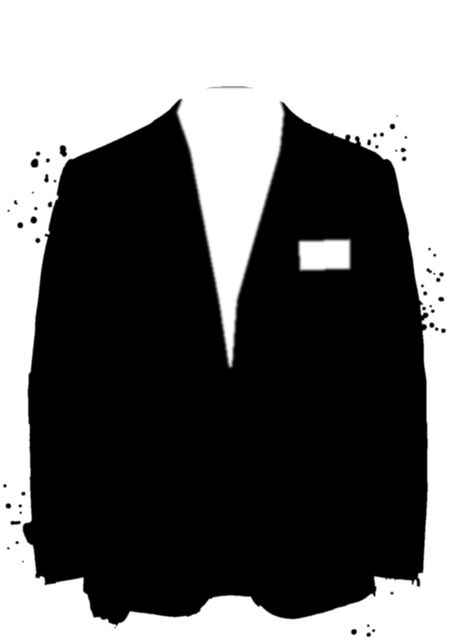
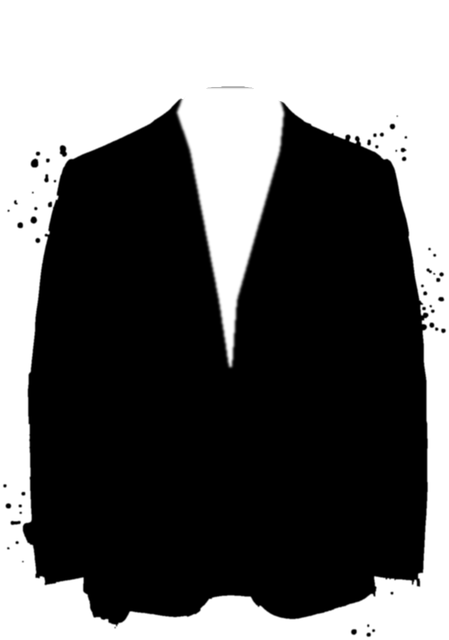
Déploiement automatique anti-cache + chemise blanche

Changed region(s): [[0.6548, 0.375, 0.8107, 0.4375]]

diff --git a/sketches.js b/sketches.js
@@ -161,89 +161,115 @@
     </svg>`;
   }
 
+  /* filtres communs aux tenues : bords légèrement irréguliers, grain de papier, ombre douce */
+  const outfitDefs = k => `
+        <linearGradient id="${k}hg" x1="0" x2="1"><stop offset="0" stop-color="#a98035"/><stop offset=".5" stop-color="#f1d9a0"/><stop offset="1" stop-color="#a98035"/></linearGradient>
+        <filter id="${k}wc" x="-15%" y="-10%" width="130%" height="125%" color-interpolation-filters="sRGB">
+          <feTurbulence type="fractalNoise" baseFrequency=".045" numOctaves="2" seed="3" result="w"/>
+          <feDisplacementMap in="SourceGraphic" in2="w" scale="1.1" result="d"/>
+          <feTurbulence type="fractalNoise" baseFrequency=".9" numOctaves="3" seed="8" result="n"/>
+          <feColorMatrix in="n" type="saturate" values="0" result="g"/>
+          <feComponentTransfer in="g" result="gr"><feFuncR type="linear" slope=".45" intercept=".7"/><feFuncG type="linear" slope=".45" intercept=".7"/><feFuncB type="linear" slope=".45" intercept=".7"/></feComponentTransfer>
+          <feBlend in="d" in2="gr" mode="multiply" result="m"/>
+          <feComposite in="m" in2="d" operator="in" result="p"/>
+          <feGaussianBlur in="d" stdDeviation="3.5" result="b"/>
+          <feOffset in="b" dy="4" result="o"/>
+          <feColorMatrix in="o" type="matrix" values="0 0 0 0 .35  0 0 0 0 .12  0 0 0 0 .22  0 0 0 .22 0" result="sh"/>
+          <feMerge><feMergeNode in="sh"/><feMergeNode in="p"/></feMerge>
+        </filter>`;
+
   window.SKETCH = {
     chateau: wrap('0 0 420 236', chateauW, chateau, 'Aquarelle du Château de la Fontaine et de son grand cèdre'),
     eglise: wrap('0 0 420 236', egliseW, eglise, 'Aquarelle de l’église et de la halle d’Égreville'),
     mairie: wrap('0 0 420 236', mairieW, mairie, 'Aquarelle de l’hôtel de ville de Suresnes'),
     doodle: (k) => `<svg class="sk doodle" viewBox="0 0 64 64" aria-hidden="true"><g class="ink">${doodles[k] || doodles.heart}</g></svg>`,
     seal,
-    /* Tenues illustrées (dress code). La couleur « c » remplit les éléments .fab ;
-       ombres et reflets sont des calques translucides, donc ils suivent toute couleur. */
+    /* Tenues illustrées (dress code), façon aquarelle réaliste.
+       La couleur « c » remplit les éléments .fab ; ombres, satin et grain de papier
+       sont des calques translucides : ils suivent n'importe quelle couleur. */
     suit: (c) => { const k = 'o' + (sealN++); return `<svg class="outfit" viewBox="0 0 120 170" aria-hidden="true">
-      <defs>
-        <linearGradient id="${k}L" x1="0" x2="1"><stop offset="0" stop-color="#000" stop-opacity=".26"/><stop offset=".35" stop-color="#000" stop-opacity=".02"/><stop offset=".8" stop-color="#fff" stop-opacity=".1"/><stop offset="1" stop-color="#000" stop-opacity=".08"/></linearGradient>
-        <linearGradient id="${k}R" x1="1" x2="0"><stop offset="0" stop-color="#000" stop-opacity=".3"/><stop offset=".35" stop-color="#000" stop-opacity=".04"/><stop offset=".85" stop-color="#000" stop-opacity="0"/><stop offset="1" stop-color="#000" stop-opacity=".12"/></linearGradient>
-        <linearGradient id="${k}T" x1="0" y1="0" x2="0" y2="1"><stop offset="0" stop-color="#fff" stop-opacity=".3"/><stop offset=".22" stop-color="#fff" stop-opacity="0"/><stop offset=".85" stop-color="#000" stop-opacity="0"/><stop offset="1" stop-color="#000" stop-opacity=".12"/></linearGradient>
-        <linearGradient id="${k}S" x1="0" x2="1"><stop offset="0" stop-color="#000" stop-opacity=".32"/><stop offset=".5" stop-color="#000" stop-opacity=".08"/><stop offset="1" stop-color="#000" stop-opacity=".22"/></linearGradient>
-        <linearGradient id="${k}hg" x1="0" x2="1"><stop offset="0" stop-color="#a98035"/><stop offset=".5" stop-color="#f1d9a0"/><stop offset="1" stop-color="#a98035"/></linearGradient>
-        <filter id="${k}ds" x="-20%" y="-10%" width="140%" height="130%"><feDropShadow dx="0" dy="5" stdDeviation="4" flood-color="#5a1e37" flood-opacity=".2"/></filter>
+      <defs>${outfitDefs(k)}
+        <linearGradient id="${k}L" x1="0" x2="1"><stop offset="0" stop-color="#000" stop-opacity=".34"/><stop offset=".45" stop-color="#000" stop-opacity=".02"/><stop offset=".75" stop-color="#fff" stop-opacity=".16"/><stop offset="1" stop-color="#000" stop-opacity=".1"/></linearGradient>
+        <linearGradient id="${k}R" x1="1" x2="0"><stop offset="0" stop-color="#000" stop-opacity=".4"/><stop offset=".5" stop-color="#000" stop-opacity=".06"/><stop offset="1" stop-color="#000" stop-opacity=".16"/></linearGradient>
+        <linearGradient id="${k}V" x1="0" y1="0" x2="0" y2="1"><stop offset="0" stop-color="#fff" stop-opacity=".22"/><stop offset=".25" stop-color="#fff" stop-opacity="0"/><stop offset=".5" stop-color="#000" stop-opacity=".1"/><stop offset=".62" stop-color="#000" stop-opacity="0"/><stop offset="1" stop-color="#000" stop-opacity=".18"/></linearGradient>
+        <linearGradient id="${k}S" x1="0" x2="1"><stop offset="0" stop-color="#000" stop-opacity=".42"/><stop offset=".55" stop-color="#000" stop-opacity=".08"/><stop offset=".8" stop-color="#fff" stop-opacity=".1"/><stop offset="1" stop-color="#000" stop-opacity=".3"/></linearGradient>
+        <linearGradient id="${k}S2" x1="1" x2="0"><stop offset="0" stop-color="#000" stop-opacity=".46"/><stop offset=".55" stop-color="#000" stop-opacity=".1"/><stop offset=".8" stop-color="#fff" stop-opacity=".06"/><stop offset="1" stop-color="#000" stop-opacity=".3"/></linearGradient>
+        <linearGradient id="${k}sat" x1="0" y1="0" x2="1" y2="1"><stop offset="0" stop-color="#fff" stop-opacity="0"/><stop offset=".42" stop-color="#fff" stop-opacity=".05"/><stop offset=".5" stop-color="#fff" stop-opacity=".42"/><stop offset=".6" stop-color="#fff" stop-opacity=".06"/><stop offset="1" stop-color="#fff" stop-opacity="0"/></linearGradient>
       </defs>
-      <!-- cintre fil doré : seul le crochet sort du col, le reste est caché dans la veste -->
-      <path d="M60 33 V15 a6 6 0 1 1 6 -6" fill="none" stroke="url(#${k}hg)" stroke-width="2.2" stroke-linecap="round"/>
-      <g filter="url(#${k}ds)">
-        <!-- col arrière (doublure) -->
-        <path class="fab" fill="${c}" d="M49 31 Q60 26.5 71 31 L69 36 Q60 32.5 51 36 Z"/>
-        <path fill="#000" fill-opacity=".38" d="M49 31 Q60 26.5 71 31 L69 36 Q60 32.5 51 36 Z"/>
-        <ellipse cx="60" cy="29.4" rx="3.2" ry="1.2" fill="#000" fill-opacity=".35"/>
-        <!-- chemise + cravate -->
-        <path fill="#fbf8f5" d="M50 31 Q60 28.5 70 31 L60 101 Z"/>
-        <path fill="#000" fill-opacity=".06" d="M60 34 L60 101 L56 70 Z"/>
-        <path fill="#fff" d="M50.5 31.5 L60 37 L56 42 Z M69.5 31.5 L60 37 L64 42 Z"/>
-        <path fill="#3a2530" d="M57.6 37.5 H62.4 L63.4 42.5 H56.6 Z"/>
-        <path fill="#3a2530" d="M56.8 42.5 H63.2 L65.5 80 L60 87 L54.5 80 Z"/>
-        <path fill="#fff" fill-opacity=".14" d="M60 42.5 H63.2 L65.5 80 L60 87 Z"/>
-        <!-- manches (derrière le buste) -->
-        <path class="fab" fill="${c}" d="M25 45 Q16.5 47 15.5 58 L12.5 128 Q18 131.5 24.5 129 L28.5 74 Z"/>
-        <path fill="url(#${k}S)" d="M25 45 Q16.5 47 15.5 58 L12.5 128 Q18 131.5 24.5 129 L28.5 74 Z"/>
-        <path class="fab" fill="${c}" d="M95 45 Q103.5 47 104.5 58 L107.5 128 Q102 131.5 95.5 129 L91.5 74 Z"/>
-        <path fill="url(#${k}S)" d="M95 45 Q103.5 47 104.5 58 L107.5 128 Q102 131.5 95.5 129 L91.5 74 Z"/>
-        <path fill="#fbf8f5" d="M13 126 Q18.5 129 24.6 127 L24.4 131 Q18 133.5 12.8 130.5 Z M107 126 Q101.5 129 95.4 127 L95.6 131 Q102 133.5 107.2 130.5 Z"/>
-        <!-- pan gauche / pan droit -->
-        <path class="fab" fill="${c}" d="M50 31 L60 101 Q58.5 133 50.5 156 Q36 159 23.5 153 Q21.5 127 23.5 101 Q26.5 88 25 74 L20.5 56 Q20 47.5 24.5 45 Z"/>
-        <path fill="url(#${k}L)" d="M50 31 L60 101 Q58.5 133 50.5 156 Q36 159 23.5 153 Q21.5 127 23.5 101 Q26.5 88 25 74 L20.5 56 Q20 47.5 24.5 45 Z"/>
-        <path class="fab" fill="${c}" d="M70 31 L60 101 Q61.5 133 69.5 156 Q84 159 96.5 153 Q98.5 127 96.5 101 Q93.5 88 95 74 L99.5 56 Q100 47.5 95.5 45 Z"/>
-        <path fill="url(#${k}R)" d="M70 31 L60 101 Q61.5 133 69.5 156 Q84 159 96.5 153 Q98.5 127 96.5 101 Q93.5 88 95 74 L99.5 56 Q100 47.5 95.5 45 Z"/>
-        <path fill="url(#${k}T)" d="M24.5 45 L50 31 L60 101 L70 31 L95.5 45 Q100 47.5 99.5 56 L96.5 101 Q98.5 127 96.5 153 Q84 159 69.5 156 Q61.5 133 60 101 Q58.5 133 50.5 156 Q36 159 23.5 153 Q21.5 127 23.5 101 L20.5 56 Q20 47.5 24.5 45 Z"/>
-        <!-- revers à cran aigu -->
-        <path class="fab" fill="${c}" d="M50 31 L44.5 34.5 L35.5 50.5 L45.5 52.5 L60 101 Z"/>
-        <path fill="#000" fill-opacity=".2" d="M50 31 L44.5 34.5 L35.5 50.5 L45.5 52.5 L60 101 Z"/>
-        <path fill="#fff" fill-opacity=".14" d="M44.5 34.5 L35.5 50.5 L40 51.4 Z"/>
-        <path class="fab" fill="${c}" d="M70 31 L75.5 34.5 L84.5 50.5 L74.5 52.5 L60 101 Z"/>
-        <path fill="#000" fill-opacity=".1" d="M70 31 L75.5 34.5 L84.5 50.5 L74.5 52.5 L60 101 Z"/>
-        <path fill="none" stroke="#000" stroke-opacity=".28" stroke-width=".8" stroke-linejoin="round" d="M44.5 34.5 L35.5 50.5 L45.5 52.5 L60 101 M75.5 34.5 L84.5 50.5 L74.5 52.5 L60 101 M42 46 L46 47.5 M78 46 L74 47.5"/>
-        <!-- coutures, pinces, poches -->
-        <path fill="none" stroke="#000" stroke-opacity=".16" stroke-width=".8" d="M34 64 Q35 92 36.5 118 M86 64 Q85 92 83.5 118 M25 74 Q24 60 21 56 M95 74 Q96 60 99 56"/>
-        <path fill="none" stroke="#fff" stroke-opacity=".25" stroke-width=".7" d="M60.6 101 Q62 133 70 155.4"/>
-        <path class="fab" fill="${c}" d="M27 117 H45 L44.6 123.5 Q36 124.6 27.2 123.5 Z M75 117 H93 L92.8 123.5 Q84 124.6 75.4 123.5 Z"/>
-        <path fill="#000" fill-opacity=".14" d="M27 117 H45 L44.6 123.5 Q36 124.6 27.2 123.5 Z M75 117 H93 L92.8 123.5 Q84 124.6 75.4 123.5 Z"/>
-        <path fill="none" stroke="#000" stroke-opacity=".3" stroke-width=".8" d="M27 117 H45 M75 117 H93"/>
-        <path fill="none" stroke="#000" stroke-opacity=".3" stroke-width=".8" d="M74 64.5 L89 63"/>
-        <path fill="#fbf8f5" d="M76 64.3 L79 58.5 L81.5 61.5 L84 57.5 L87 63.2 Z"/>
-        <path fill="#000" fill-opacity=".08" d="M81.5 61.5 L84 57.5 L87 63.2 Z"/>
-        <circle cx="59.3" cy="104" r="1.9" fill="#2a1820" fill-opacity=".8"/><circle cx="59.6" cy="117" r="1.9" fill="#2a1820" fill-opacity=".8"/>
-        <circle cx="58.8" cy="103.4" r=".6" fill="#fff" fill-opacity=".5"/><circle cx="59.1" cy="116.4" r=".6" fill="#fff" fill-opacity=".5"/>
-        <path fill="none" stroke="#000" stroke-opacity=".22" stroke-width=".7" d="M22 122 L24.5 122 M98 122 L95.5 122"/>
+      <path d="M60 31 V15 a6 6 0 1 1 6 -6" fill="none" stroke="url(#${k}hg)" stroke-width="2" stroke-linecap="round"/>
+      <g filter="url(#${k}wc)">
+        <path class="fab" fill="${c}" d="M52 30 Q60 26.5 68 30 L67 34 Q60 31.5 53 34 Z"/>
+        <path fill="#000" fill-opacity=".45" d="M52 30 Q60 26.5 68 30 L67 34 Q60 31.5 53 34 Z"/>
+        <ellipse cx="60" cy="28.6" rx="2.6" ry="1" fill="#000" fill-opacity=".4"/>
+        <!-- plastron de chemise -->
+        <path fill="#fbf8f4" d="M52 30 Q60 28 68 30 L60 104 Z"/>
+        <path fill="none" stroke="#000" stroke-opacity=".07" stroke-width=".6" d="M57.5 42 L59.2 98 M62.5 42 L60.8 98 M55.5 42 L58.6 90 M64.5 42 L61.4 90"/>
+        <circle cx="60" cy="50" r=".9" fill="#2a1820" fill-opacity=".7"/><circle cx="60" cy="60" r=".9" fill="#2a1820" fill-opacity=".7"/><circle cx="60" cy="70" r=".9" fill="#2a1820" fill-opacity=".7"/>
+        <!-- nœud papillon -->
+        <path fill="#2b1c24" d="M60 36.2 L51.6 32.6 Q50.6 36.2 51.6 39.8 Z M60 36.2 L68.4 32.6 Q69.4 36.2 68.4 39.8 Z"/>
+        <path fill="#fff" fill-opacity=".18" d="M60 36.2 L51.6 32.6 Q51 34 51.3 35 Z M60 36.2 L68.4 32.6 Q69 34 68.7 35 Z"/>
+        <rect x="58.2" y="34.2" width="3.6" height="4" rx="1" fill="#1d1218"/>
+        <!-- manches -->
+        <path class="fab" fill="${c}" d="M30 39 Q24 42 23.5 52 Q22 75 23.5 98 Q24.5 116 26 133 L36 133.5 Q35.4 112 37 92 Q38.5 70 34 54 Z"/>
+        <path fill="url(#${k}S)" d="M30 39 Q24 42 23.5 52 Q22 75 23.5 98 Q24.5 116 26 133 L36 133.5 Q35.4 112 37 92 Q38.5 70 34 54 Z"/>
+        <path class="fab" fill="${c}" d="M90 39 Q96 42 96.5 52 Q98 75 96.5 98 Q95.5 116 94 133 L84 133.5 Q84.6 112 83 92 Q81.5 70 86 54 Z"/>
+        <path fill="url(#${k}S2)" d="M90 39 Q96 42 96.5 52 Q98 75 96.5 98 Q95.5 116 94 133 L84 133.5 Q84.6 112 83 92 Q81.5 70 86 54 Z"/>
+        <path fill="#000" fill-opacity=".22" d="M84 133.5 Q84.6 112 83 92 Q82 78 85 62 L88 64 Q86 80 87 96 Q87.4 116 86 133.5 Z"/>
+        <path fill="#fbf8f4" d="M26 131 L36 131.5 L36.2 134.6 L26.2 134.2 Z M94 131 L84 131.5 L83.8 134.6 L93.8 134.2 Z"/>
+        <path fill="#000" fill-opacity=".25" d="M26 131 L36 131.5 L36 132.4 L26 132 Z M94 131 L84 131.5 L84 132.4 L94 132 Z"/>
+        <!-- pans de la veste (taille cintrée) -->
+        <path class="fab" fill="${c}" d="M52 30 L59.6 104 Q58.6 134 52 155 Q42 157.5 34 153 Q32.5 138 33.5 126 Q35.5 112 36.5 100 Q37 84 34 66 Q31.5 54 29 46 Q28.5 40 32 37.5 Q42 32 52 30 Z"/>
+        <path fill="url(#${k}L)" d="M52 30 L59.6 104 Q58.6 134 52 155 Q42 157.5 34 153 Q32.5 138 33.5 126 Q35.5 112 36.5 100 Q37 84 34 66 Q31.5 54 29 46 Q28.5 40 32 37.5 Q42 32 52 30 Z"/>
+        <path class="fab" fill="${c}" d="M68 30 L59.6 104 Q61.4 134 68 155 Q78 157.5 86 153 Q87.5 138 86.5 126 Q84.5 112 83.5 100 Q83 84 86 66 Q88.5 54 91 46 Q91.5 40 88 37.5 Q78 32 68 30 Z"/>
+        <path fill="url(#${k}R)" d="M68 30 L59.6 104 Q61.4 134 68 155 Q78 157.5 86 153 Q87.5 138 86.5 126 Q84.5 112 83.5 100 Q83 84 86 66 Q88.5 54 91 46 Q91.5 40 88 37.5 Q78 32 68 30 Z"/>
+        <path fill="url(#${k}V)" d="M32 37.5 Q42 32 52 30 L59.6 104 L68 30 Q78 32 88 37.5 Q91.5 40 91 46 Q88.5 54 86 66 Q83 84 83.5 100 Q84.5 112 86.5 126 Q87.5 138 86 153 Q78 157.5 68 155 Q61.4 134 59.6 104 Q58.6 134 52 155 Q42 157.5 34 153 Q32.5 138 33.5 126 Q35.5 112 36.5 100 Q37 84 34 66 Q31.5 54 29 46 Q28.5 40 32 37.5 Z"/>
+        <!-- revers en satin à pointe -->
+        <path class="fab" fill="${c}" d="M52 30 L47 33.2 L36.5 46.5 L44.5 49.6 Q51 76 59.6 104 Z"/>
+        <path fill="#000" fill-opacity=".32" d="M52 30 L47 33.2 L36.5 46.5 L44.5 49.6 Q51 76 59.6 104 Z"/>
+        <path fill="url(#${k}sat)" d="M52 30 L47 33.2 L36.5 46.5 L44.5 49.6 Q51 76 59.6 104 Z"/>
+        <path class="fab" fill="${c}" d="M68 30 L73 33.2 L83.5 46.5 L75.5 49.6 Q69 76 60.4 104 Z"/>
+        <path fill="#000" fill-opacity=".38" d="M68 30 L73 33.2 L83.5 46.5 L75.5 49.6 Q69 76 60.4 104 Z"/>
+        <path fill="url(#${k}sat)" fill-opacity=".6" d="M68 30 L73 33.2 L83.5 46.5 L75.5 49.6 Q69 76 60.4 104 Z"/>
+        <path fill="none" stroke="#000" stroke-opacity=".3" stroke-width=".6" stroke-linejoin="round" d="M47 33.2 L36.5 46.5 L44.5 49.6 Q51 76 59.6 104 M73 33.2 L83.5 46.5 L75.5 49.6 Q69 76 60.4 104 M41.5 44 L45.6 45.6 M78.5 44 L74.4 45.6"/>
+        <!-- poches, bouton, pochette -->
+        <path fill="#000" fill-opacity=".3" d="M38.5 121.5 Q45 120.6 51.5 121.5 L51.4 123 Q45 122.2 38.6 123 Z M81.5 121.5 Q75 120.6 68.5 121.5 L68.6 123 Q75 122.2 81.4 123 Z"/>
+        <path fill="none" stroke="#fff" stroke-opacity=".2" stroke-width=".5" d="M38.6 124 Q45 123.2 51.4 124 M68.6 124 Q75 123.2 81.4 124"/>
+        <path fill="#000" fill-opacity=".3" d="M70.5 60 L80.5 58.6 L80.6 60 L70.6 61.4 Z"/>
+        <path fill="#fbf8f4" d="M72 60 L74.5 55.2 L76.6 57.6 L78.6 54.4 L80.2 58.8 Z"/>
+        <circle cx="59.7" cy="106" r="2" fill="#1d1218"/><circle cx="59.2" cy="105.4" r=".7" fill="#fff" fill-opacity=".45"/>
+        <path fill="none" stroke="#000" stroke-opacity=".18" stroke-width=".6" d="M43 62 Q44.5 90 45 118 M77 62 Q75.5 90 75 118"/>
+        <path fill="none" stroke="#fff" stroke-opacity=".3" stroke-width=".6" d="M60.4 106 Q61.6 134 67.6 154.4"/>
       </g></svg>`; },
     dress: (c) => { const k = 'o' + (sealN++); return `<svg class="outfit" viewBox="0 0 120 170" aria-hidden="true">
-      <defs>
-        <linearGradient id="${k}sh" x1="0" x2="1"><stop offset="0" stop-color="#000" stop-opacity=".2"/><stop offset=".22" stop-color="#000" stop-opacity="0"/><stop offset=".45" stop-color="#fff" stop-opacity=".25"/><stop offset=".6" stop-color="#fff" stop-opacity="0"/><stop offset="1" stop-color="#000" stop-opacity=".2"/></linearGradient>
-        <linearGradient id="${k}fold" x1="0" x2="1"><stop offset="0" stop-color="#000" stop-opacity="0"/><stop offset=".5" stop-color="#000" stop-opacity=".13"/><stop offset="1" stop-color="#000" stop-opacity="0"/></linearGradient>
-        <linearGradient id="${k}hg" x1="0" x2="1"><stop offset="0" stop-color="#a98035"/><stop offset=".5" stop-color="#f1d9a0"/><stop offset="1" stop-color="#a98035"/></linearGradient>
-        <filter id="${k}ds" x="-20%" y="-10%" width="140%" height="130%"><feDropShadow dx="0" dy="4" stdDeviation="4" flood-color="#5a1e37" flood-opacity=".18"/></filter>
+      <defs>${outfitDefs(k)}
+        <linearGradient id="${k}sk" x1="0" x2="1"><stop offset="0" stop-color="#000" stop-opacity=".3"/><stop offset=".2" stop-color="#000" stop-opacity=".04"/><stop offset=".38" stop-color="#fff" stop-opacity=".3"/><stop offset=".5" stop-color="#fff" stop-opacity=".02"/><stop offset=".7" stop-color="#000" stop-opacity=".08"/><stop offset=".82" stop-color="#fff" stop-opacity=".18"/><stop offset="1" stop-color="#000" stop-opacity=".32"/></linearGradient>
+        <linearGradient id="${k}fd" x1="0" x2="1"><stop offset="0" stop-color="#000" stop-opacity="0"/><stop offset=".5" stop-color="#000" stop-opacity=".2"/><stop offset="1" stop-color="#000" stop-opacity="0"/></linearGradient>
+        <linearGradient id="${k}fl" x1="0" x2="1"><stop offset="0" stop-color="#fff" stop-opacity="0"/><stop offset=".5" stop-color="#fff" stop-opacity=".32"/><stop offset="1" stop-color="#fff" stop-opacity="0"/></linearGradient>
+        <linearGradient id="${k}bd" x1="0" x2="1"><stop offset="0" stop-color="#000" stop-opacity=".28"/><stop offset=".4" stop-color="#fff" stop-opacity=".22"/><stop offset=".6" stop-color="#fff" stop-opacity="0"/><stop offset="1" stop-color="#000" stop-opacity=".3"/></linearGradient>
       </defs>
-      <path d="M60 22 V15 a6 6 0 1 1 6 -6" fill="none" stroke="url(#${k}hg)" stroke-width="2.2" stroke-linecap="round"/>
-      <path d="M60 22 L22 38 Q20 40 23 40 H97 Q100 40 98 38 Z" fill="none" stroke="url(#${k}hg)" stroke-width="2.2" stroke-linejoin="round"/>
-      <path d="M44.6 41.5 Q45.5 37 47.6 39.6 L47 56 M75.4 41.5 Q74.5 37 72.4 39.6 L73 56" fill="none" stroke="${c}" stroke-width="1.6" stroke-linecap="round" class="fab-s"/>
-      <g filter="url(#${k}ds)">
-        <path class="fab" fill="${c}" d="M46 56 Q53 52 60 58 Q67 52 74 56 L72 80 Q88 118 102 162 Q60 170 18 162 Q32 118 48 80 Z"/>
-        <path fill="url(#${k}sh)" d="M46 56 Q53 52 60 58 Q67 52 74 56 L72 80 Q88 118 102 162 Q60 170 18 162 Q32 118 48 80 Z"/>
-        <path fill="url(#${k}fold)" d="M52 82 Q43 122 32 164 L45 165 Q52 122 56 82 Z"/>
-        <path fill="url(#${k}fold)" d="M64 82 Q75 122 84 165 L97 163 Q81 120 68 82 Z"/>
-        <path fill="url(#${k}fold)" d="M58 82 Q60 124 58 167 L64 167 Q64 124 62 82 Z"/>
-        <path fill="#000" fill-opacity=".16" d="M48 78 Q60 83 72 78 L72 82 Q60 87 48 82 Z"/>
-        <path fill="none" stroke="#fff" stroke-opacity=".55" stroke-width="1" d="M49 60 Q54 57 59 61"/>
-        <path fill="none" stroke="#000" stroke-opacity=".12" stroke-width=".8" d="M60 58 V80"/>
-        <path fill="#fff" fill-opacity=".9" d="M72 79 l6 -3 l1 3 l-1 3 l-6 -2 z"/>
+      <path d="M60 22 V15 a6 6 0 1 1 6 -6" fill="none" stroke="url(#${k}hg)" stroke-width="2" stroke-linecap="round"/>
+      <path d="M60 22 L30 37 Q28.5 39 31 39 H89 Q91.5 39 90 37 Z" fill="none" stroke="url(#${k}hg)" stroke-width="2" stroke-linejoin="round"/>
+      <g filter="url(#${k}wc)">
+        <!-- bretelles -->
+        <path class="fab-s" fill="none" stroke="${c}" stroke-width="1.5" stroke-linecap="round" d="M45.6 40.5 Q46.6 36.2 48.4 38.8 L49.6 57 M74.4 40.5 Q73.4 36.2 71.6 38.8 L70.4 57"/>
+        <!-- dos de la robe visible dans le décolleté -->
+        <path class="fab" fill="${c}" d="M49.6 56 Q60 60 70.4 56 L60 74 Z"/>
+        <path fill="#000" fill-opacity=".38" d="M49.6 56 Q60 60 70.4 56 L60 74 Z"/>
+        <!-- jupe longue fluide -->
+        <path class="fab" fill="${c}" d="M52.5 84 Q47 110 38 136 Q32 150 25 160 q7 5 14 1 q7 6 14 1.5 q7 5.5 14 1 q7 6 14 1 q7 5 15 -0.5 Q90 146 82 128 Q74 108 67.5 84 Z"/>
+        <path fill="url(#${k}sk)" d="M52.5 84 Q47 110 38 136 Q32 150 25 160 q7 5 14 1 q7 6 14 1.5 q7 5.5 14 1 q7 6 14 1 q7 5 15 -0.5 Q90 146 82 128 Q74 108 67.5 84 Z"/>
+        <path fill="url(#${k}fd)" d="M55 86 Q48 125 36 161 L45 162.5 Q53 125 57.5 86 Z"/>
+        <path fill="url(#${k}fl)" d="M57 86 Q55 125 49 163 L57 163.5 Q59 125 59.4 86 Z"/>
+        <path fill="url(#${k}fd)" d="M61 86 Q64 125 66 164 L74 163 Q68 124 63 86 Z"/>
+        <path fill="url(#${k}fl)" d="M64 86 Q72 122 80 162 L87 161 Q76 120 66 86 Z"/>
+        <path fill="url(#${k}fd)" d="M66 86 Q78 118 92 159 L97 158.6 Q82 116 67.5 86 Z"/>
+        <path fill="#000" fill-opacity=".16" d="M25 160 q7 5 14 1 q7 6 14 1.5 q7 5.5 14 1 q7 6 14 1 q7 5 15 -0.5 l0 1.6 q-8 5 -15 1 q-7 6 -14 0.6 q-7 5.6 -14 0.4 q-7 6 -14 0.2 q-7 4.6 -14 -1.4 Z"/>
+        <!-- buste drapé en V -->
+        <path class="fab" fill="${c}" d="M49.6 56 L60 74 L70.4 56 Q71 68 68.8 76 Q68 81 67.5 85 Q60 87.5 52.5 85 Q52 81 51.2 76 Q49 68 49.6 56 Z"/>
+        <path fill="url(#${k}bd)" d="M49.6 56 L60 74 L70.4 56 Q71 68 68.8 76 Q68 81 67.5 85 Q60 87.5 52.5 85 Q52 81 51.2 76 Q49 68 49.6 56 Z"/>
+        <path fill="none" stroke="#000" stroke-opacity=".2" stroke-width=".7" d="M51 64 Q57 70 66 82 M51.5 70 Q56 75 62 84 M69 62 Q64 70 59.6 76"/>
+        <path fill="none" stroke="#fff" stroke-opacity=".45" stroke-width=".8" d="M50.4 59 Q53 66 58.5 72"/>
+        <path fill="#000" fill-opacity=".2" d="M52.5 83.4 Q60 86 67.5 83.4 L67.6 85.4 Q60 88 52.4 85.4 Z"/>
       </g></svg>`; },
     /* filtres partagés : trait tremblé + lavis aquarelle */
     defs: `<svg width="0" height="0" style="position:absolute" aria-hidden="true">

diff --git a/index.html b/index.html
@@ -279,7 +279,12 @@ h2 { font: italic 500 clamp(34px, 6vw, 46px)/1.05 var(--f-display); margin: 8px 
 .tint { position: relative; isolation: isolate; }
 .tint::before { content: ''; position: absolute; inset: 0; background: var(--tc); transition: background .6s ease;
   -webkit-mask: var(--img) center / contain no-repeat; mask: var(--img) center / contain no-repeat; }
-.tint img { position: relative; display: block; width: 100%; height: auto; mix-blend-mode: multiply; filter: grayscale(1) brightness(1.08) contrast(1.08); }
+.tint img { position: relative; display: block; width: 100%; height: auto; mix-blend-mode: multiply; }
+.outfits figure { display: grid; align-content: end; justify-items: center; }
+.outfits:has(.tint, .outfit-img) { gap: 18px; align-items: end; }
+.outfits:has(.tint, .outfit-img) figure { width: auto; }
+.outfits .tint, .outfits .outfit-img { height: clamp(190px, 52vw, 280px); width: auto; }
+.outfits .tint img { height: 100%; width: auto; }
 .outfits figcaption { font: 500 11px/1.4 var(--f-mono); letter-spacing: .08em; text-transform: uppercase; color: var(--muted); }
 .outfits figcaption b { display: block; font: italic 500 24px/1.1 var(--f-display); text-transform: none; letter-spacing: 0; color: var(--accent); }
 .sc-sub { font: italic 500 19px/1.2 var(--f-display); color: var(--ink); }
@@ -642,8 +647,9 @@ canvas#confetti { position: fixed; inset: 0; pointer-events: none; z-index: 60; 
     const img = (C.codeCouleur.images || {})[who];
     if (!img) return draw(hex);
     const tint = C.codeCouleur.teinter !== false;
+    const mask = (C.codeCouleur.masques || {})[who] || img;
     return tint
-      ? `<div class="tint" style="--tc:${esc(hex)};--img:url('${esc(img)}')"><img src="${esc(img)}" alt=""></div>`
+      ? `<div class="tint" style="--tc:${esc(hex)};--img:url('${esc(mask)}')"><img src="${esc(img)}" alt=""></div>`
       : `<img class="outfit-img" src="${esc(img)}" alt="">`;
   }
 

diff --git a/config.js b/config.js
@@ -138,7 +138,6 @@ window.CONFIG = {
       { nom: 'Framboise',   hex: '#b4476a' },
       { nom: 'Pêche',       hex: '#e39a6f' },
       { nom: 'Lilas',       hex: '#e9d5f5' },
-      { nom: 'Ivoire',      hex: '#fdf5f6' }
     ]
   },
 

diff --git a/README.md b/README.md
@@ -63,3 +63,10 @@ Le bouton « iPhone, Mac, Outlook » ouvre `agenda/<code>.ics` (journées entiè
 ## Les réponses
 Onglet **RSVP** : une ligne par foyer et par appareil ; si quelqu’un modifie sa réponse, la ligne est mise à jour (`modifs` compte les changements). Colonnes : présence, adultes/enfants, moments choisis, couchage (nuits, nb de personnes, chambre partagée, estimation à 60 €/pers./nuit), régime, chanson, message, e-mail.
 Idées pour plus tard : reporter `presence` vers l’onglet Invites de l’appli (statut Confirmé/Décliné) et `chanson` vers l’onglet Playlist.
+
+## Déploiement automatique (anti-cache)
+Le fichier `.github/workflows/deploy.yml` publie le site à chaque `git push` sur `main`.
+Avant publication, il ajoute `?v=<numéro du commit>` à `config.js`, `sketches.js` et aux images de `config.js` :
+chaque visiteur recharge automatiquement les fichiers modifiés. Rien à faire à la main.
+Réglage à faire une seule fois : *Settings → Pages → Build and deployment → Source : **GitHub Actions***.
+Suivi des publications : onglet **Actions** (coche verte = en ligne).
